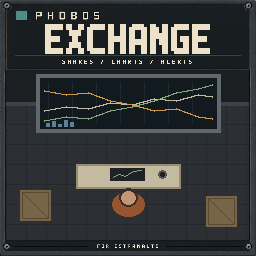
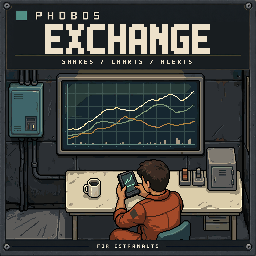
Refresh Phobos Exchange Workshop cover

diff --git a/scripts/export-exchange-art.py b/scripts/export-exchange-art.py
@@ -1,10 +1,12 @@
 """Draw Phobos Exchange's EXCHANGE PDA icon deterministically.
 
-No image generation and no game asset: every icon shape is drawn here from fixed coordinates, so the script is
-the icon's source. The icon follows the game's own PDA icons (a white disc with a black glyph, 256 pixels square,
-tinted by the game); its master is drawn at 1024 pixels and reduced with Lanczos filtering. It also draws the held Workshop
-cover's scene layer (244 x 170, recorded in assets/workshop/composed.json), a placeholder until the owner chooses
-otherwise. Use --check to compare committed outputs without writing.
+No game asset is used: the icon shapes are drawn from fixed coordinates, so this
+script is their source. The icon follows the game's own PDA icons (a white disc
+with a black glyph, 256 pixels square, tinted by the game); its master is drawn
+at 1024 pixels and reduced with Lanczos filtering. The Workshop cover scene is
+separate generated artwork retained at assets/workshop/sources/PhobosExchange-scene.png
+and composed by scripts/compose-workshop-cover.py. Use --check to compare the
+icon outputs without writing.
 """
 import argparse
 import hashlib
@@ -19,8 +21,6 @@ ROOT = Path(__file__).resolve().parents[1]
 MASTER = 'assets/phobos-exchange/Shares-1024.png'
 ICON = 'mods/PhobosExchange/images/phobos/exchange/Shares.png'
 RECORD = 'assets/phobos-exchange/exports.json'
-SCENE = 'assets/workshop/sources/PhobosExchange-scene.png'
-SCENE_SIZE = (244, 170)
 MASTER_SIZE, ICON_SIZE = 1024, 256
 WHITE, BLACK, CLEAR = (255, 255, 255, 255), (0, 0, 0, 255), (0, 0, 0, 0)
 # A price line that dips, then climbs through two runs to the top right.
@@ -41,53 +41,6 @@ def icon_master():
     return image
 
 
-def scene():
-    """The cover's scene layer, overhead like the game's rooms: a cabin nook where a spacer checks the exchange board on
-    the bulkhead, a desk terminal and two crates. Promotional placeholder, no lettering; drawn from fixed shapes."""
-    deck, seam, wall, strip = (44, 48, 52), (36, 40, 44), (28, 31, 34), (60, 66, 72)
-    steel, screen, cream, edge = (96, 104, 110), (18, 26, 32), (196, 186, 160), (150, 140, 116)
-    green, amber, blue, rust, skin, crate = (130, 170, 120), (210, 150, 70), (92, 128, 150), (150, 84, 48), (196, 150, 120), (120, 100, 70)
-    image = Image.new('RGB', SCENE_SIZE, deck)
-    draw = ImageDraw.Draw(image)
-    for x in range(0, SCENE_SIZE[0], 20):
-        draw.line([(x, 34), (x, SCENE_SIZE[1])], fill=seam)
-    for y in range(54, SCENE_SIZE[1], 20):
-        draw.line([(0, y), (SCENE_SIZE[0], y)], fill=seam)
-    draw.rectangle((0, 0, SCENE_SIZE[0], 33), fill=wall)
-    draw.rectangle((0, 32, SCENE_SIZE[0], 35), fill=strip)
-    # The board on the bulkhead: three price lines, the market's in cream, a rising one in green, a falling one in amber.
-    draw.rectangle((30, 4, 214, 62), fill=steel)
-    draw.rectangle((34, 8, 210, 58), fill=screen)
-    for x in range(42, 206, 24):
-        draw.line([(x, 12), (x, 54)], fill=(30, 40, 46))
-    lines = [
-        (cream, [(38, 40), (60, 36), (82, 38), (104, 32), (126, 34), (148, 28), (170, 30), (192, 24), (206, 26)]),
-        (green, [(38, 50), (60, 46), (82, 48), (104, 40), (126, 36), (148, 30), (170, 22), (192, 18), (206, 14)]),
-        (amber, [(38, 20), (60, 24), (82, 22), (104, 30), (126, 34), (148, 40), (170, 38), (192, 46), (206, 48)]),
-    ]
-    for colour, points in lines:
-        draw.line(points, fill=colour, width=2)
-    for x, height in ((40, 3), (46, 5), (52, 2), (58, 6), (64, 4)):
-        draw.rectangle((x, 56 - height, x + 3, 56), fill=blue)
-    # The desk below the board, with a terminal and a mug.
-    draw.rectangle((70, 94, 174, 118), fill=edge)
-    draw.rectangle((72, 96, 172, 116), fill=cream)
-    draw.rectangle((104, 98, 138, 110), fill=(30, 34, 38))
-    draw.line([(107, 107), (113, 104), (119, 106), (127, 101), (135, 100)], fill=green, width=1)
-    draw.ellipse((152, 100, 160, 108), fill=(80, 90, 96))
-    draw.ellipse((154, 102, 158, 106), fill=(40, 30, 24))
-    # The spacer, seen from above, facing the board.
-    draw.ellipse((106, 122, 138, 146), fill=rust)
-    draw.ellipse((113, 118, 131, 136), fill=(60, 44, 36))
-    draw.ellipse((115, 121, 129, 134), fill=skin)
-    # Two crates against the edges.
-    for box in ((14, 120, 44, 150), (200, 126, 230, 156)):
-        draw.rectangle(box, fill=crate)
-        draw.rectangle((box[0] + 2, box[1] + 2, box[2] - 2, box[3] - 2), outline=(90, 74, 52))
-        draw.line([(box[0] + 2, box[1] + 2), (box[2] - 2, box[3] - 2)], fill=(90, 74, 52))
-    return image
-
-
 def png(image):
     buffer = io.BytesIO()
     image.save(buffer, format='PNG', optimize=True)
@@ -101,11 +54,11 @@ def sha256(data):
 def outputs():
     master = icon_master()
     icon = master.resize((ICON_SIZE, ICON_SIZE), Image.LANCZOS)
-    files = {MASTER: png(master), ICON: png(icon), SCENE: png(scene())}
+    files = {MASTER: png(master), ICON: png(icon)}
     record = {
         'schemaVersion': 1,
         'tool': 'scripts/export-exchange-art.py',
-        'generation': 'none: drawn from fixed shapes by the script, which is the source of record',
+        'generation': 'the EXCHANGE PDA icon is drawn from fixed shapes by this script; the Workshop cover scene is separately generated and recorded in assets/workshop/composed.json',
         'files': {path: {'sha256': sha256(data), 'bytes': len(data)} for path, data in files.items()},
         'notes': {
             ICON: 'EXCHANGE PDA app icon, 256 px like the game\'s own; reduced from the 1024 px master with Lanczos filtering.'

diff --git a/assets/workshop/README.md b/assets/workshop/README.md
@@ -1,15 +1,16 @@
 # Workshop preview artwork
 
-Nine coordinated cover illustrations for Phobos Framework, Auto Nav,
-Shipbreaker, Agriculture, Manufacturing, War Has Been Declared, Medical,
-Spacer Stories and Banking. These are promotional illustrations,
+Ten coordinated cover illustrations for Phobos Framework, Auto Nav,
+Shipbreaker, Agriculture, Manufacturing, War Has Been Declared, Exchange,
+Medical, Spacer Stories and Banking. These are promotional illustrations,
 not gameplay screenshots or a claim of release readiness. Approach Assist and Phobos Scope
 are deliberately outside this set, as selected by the owner on 25 September 2026.
 The owner approved the original four-cover set and requested native-menu integration on the same day.
 
 The designs connect different parts of life aboard: dependable systems, careful
-navigation, material recovery, cultivation, medical care, personal finances and
-crew stories. They do not promise unlimited resources or perfect recycling.
+navigation, material recovery, cultivation, medical care, market watching,
+personal finances and crew stories. They do not promise unlimited resources or
+perfect recycling.
 
 ![The original four Phobos Workshop covers](previews/collection.png)
 
@@ -21,6 +22,7 @@ crew stories. They do not promise unlimited resources or perfect recycling.
 | Phobos Agriculture | [512px](previews/PhobosAgriculture-512.png) | [256px](previews/PhobosAgriculture-256.png) | Potato and lettuce cultivation; explicitly marked **in development**. |
 | Phobos Manufacturing | [512px](previews/PhobosManufacturing-512.png) | [256px](previews/PhobosManufacturing-256.png) | Volatiles refinery, water-splitting cell and hydrogen store; composed cover (see below). |
 | Phobos' War Has Been Declared | [512px](previews/PhobosWarDeclared-512.png) | [256px](previews/PhobosWarDeclared-256.png) | A torn hull with pale-blue build sites laid where parts were lost and two crew carrying a panel; composed cover (see below). An illustration of the idea, not a screenshot. |
+| Phobos Exchange | [512px](previews/PhobosExchange-512.png) | [256px](previews/PhobosExchange-256.png) | A spacer follows market prices at a shipboard chart desk; composed cover (see below). Original promotional art, not a gameplay screenshot. |
 | Phobos Medical | [512px](previews/PhobosMedical-512.png) | [256px](previews/PhobosMedical-256.png) | A spacer resting in the Halewright Ward-3; REST / RECOVER / RETURN. Original promotional art, with no additional treatment claim. |
 | Phobos Spacer Stories | [512px](previews/PhobosSpacerStories-512.png) | [256px](previews/PhobosSpacerStories-256.png) | Two spacers sharing a story at a mess table, with correspondence, a terminal and a data card; READ / REMEMBER / RETELL. |
 | Phobos Banking | [512px](previews/PhobosBank-512.png) | [256px](previews/PhobosBank-256.png) | A working spacer checks the debt overview on their PDA; CREDIT / DEBT / REPAY. Original promotional art, not a gameplay screenshot. |
@@ -69,7 +71,7 @@ generator or included in these covers.
 
 The covers have mixed generated-art provenance. OpenAI's built-in image generation
 was used for the original covers, Medical and Spacer Stories; PixelLab produced the
-Manufacturing and War Has Been Declared scene layers. The Banking scene was generated
+Manufacturing, Exchange and War Has Been Declared scene layers. The Banking scene was generated
 with OpenAI's gpt-image-2 Image API through the bundled fallback CLI. Its exact
 prompt, input reference roles, model, source hashes and image-use record are in the
 [composition manifest](composed.json). The two style references were existing
@@ -221,6 +223,24 @@ codex/rejected-artwork, with its request, archive reason and SHA-256 recorded in
 [the composition manifest](composed.json). The owner confirmed a commercial
 license for that earlier generation; it was replaced solely because the owner
 asked for this OpenAI-generated, vanilla-style scene.
+
+## Exchange: a composed cover
+
+On **7 October 2026** PixelLab's `create_image_pro` produced one **244 x 170**
+scene for the Exchange cover, using the Spacer Stories cover for style and the
+superseded Exchange placeholder for subject and layout only. The scene shows a
+spacer checking a handheld price chart beneath a shipboard market display. It
+cost 20 generations from the subscription allowance, with no credit purchase.
+The generated source is retained at
+[`PhobosExchange-scene.png`](sources/PhobosExchange-scene.png); its exact prompt,
+source hashes, job and asset IDs are in the [composition manifest](composed.json).
+
+`python scripts/compose-workshop-cover.py` places it in the shared cover frame,
+draws the established EXCHANGE title and subtitle, then writes the 512px and 256px
+exports and `mods/PhobosExchange/preview.png`. `scripts/export-exchange-art.py`
+continues to draw only the PDA app icon. PixelLab output is subject to
+[PixelLab's terms of service](https://pixellab.ai/termsofservice). The scene is
+original promotional artwork, not a gameplay screenshot.
 
 ## Native-menu integration
 

diff --git a/mods/PhobosExchange/CHANGELOG.md b/mods/PhobosExchange/CHANGELOG.md
@@ -30,5 +30,5 @@ not Steam publication.
 - Before removing the mod, sell everything: shares are only worth credits while the exchange can buy them back. A removed exchange leaves its record untouched, and your shares return if you reinstall it.
 - Shares earn a few percent a game year on average, less than a Phobos Banking loan costs, so borrowing to hold shares loses money on average.
 - The figures are invented for the game and tuned for weeks of play; they are not measured from any real market.
-- The Workshop cover and icon are drawn by a script while the mod is held.
+- An original pixel-art Workshop cover showing a spacer following market prices aboard ship; it is promotional artwork, not a gameplay screenshot. The EXCHANGE PDA app icon remains script-drawn.
 - Checked offline: the market model, prices matching however time is stepped, jumps of up to fifty years, the save record, trades, alerts, the return guard and an economy simulation; the game's market members and every company's stations against the installed game. Not yet seen in the game; owner gameplay checks are pending.
